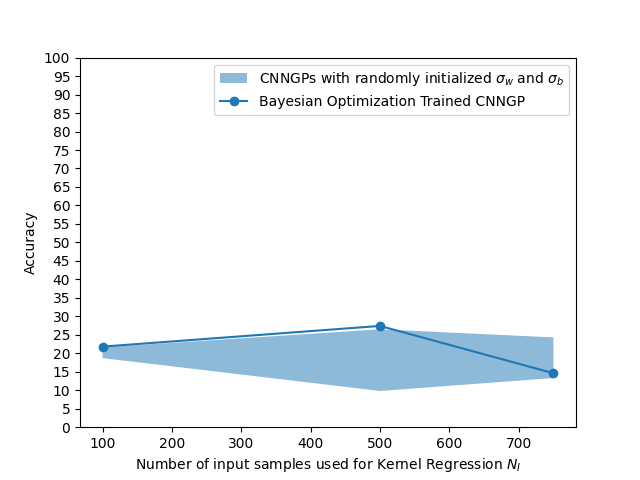
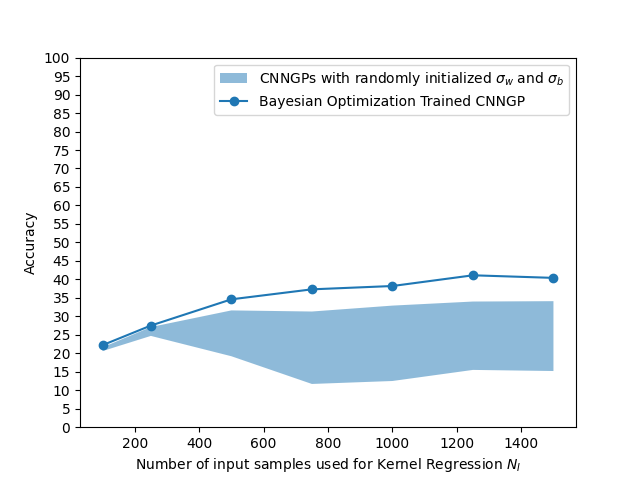
Updated experiments on CPU vs GPU accuracy

diff --git a/exp_kf_cnngp/cpu_vs_gpu_general.py b/exp_kf_cnngp/cpu_vs_gpu_general.py
@@ -8,11 +8,8 @@ import time
 
 torch.manual_seed(int(time.time()))
 
-
-# A = torch.rand((2000,2000))
-# b = torch.rand(2000)
-Ni_min = 1500
-Ni_max = 2100
+Ni_min = 100
+Ni_max = 1100
 step = 100
 
 data_size_arr = np.arange(Ni_min, Ni_max, step)
@@ -37,87 +34,39 @@ for data_size in tqdm(data_size_arr):
     b_i = torch.rand((data_size), dtype=torch.float32)
 
     # CPU Evaluations Float 64
-    # cpu_matmul_float64 = torch.matmul(A_i.to(torch.float64), B_i.to(torch.float64))
-    cpu_lstsq_float64 = torch.linalg.lstsq(A_i.to(torch.float64), b_i.to(torch.float64), rcond=1e-8).solution
-    cpu_lstsq_float64 = torch.matmul(B_i.to(torch.float64), cpu_lstsq_float64)
-    # cpu_kg_float64 = torch.matmul(B_i.to(torch.float64), cpu_lstsq_float64)
-    # cpu_lstsq_float64 = torch.matmul(torch.linalg.inv(A_i), b_i)
+    cpu_matmul_float64 = torch.matmul(A_i.to(torch.float64), B_i.to(torch.float64))
 
     # CPU Evaluations Float 32
-    # cpu_matmul_float32 = torch.matmul(A_i, A_i)
-    cpu_lstsq_float32 = torch.linalg.lstsq(A_i, b_i, rcond=1e-8).solution
-    cpu_lstsq_float32 = torch.matmul(B_i, cpu_lstsq_float32)
-    # cpu_kg_float32 = torch.matmul(B_i, cpu_lstsq_float32)
-    # cpu_lstsq_float32 = torch.matmul(torch.linalg.inv(A_i.to(torch.float32)), b_i.to(torch.float32))
+    cpu_matmul_float32 = torch.matmul(A_i, B_i)
 
     # GPU Evaluations Float 64
-    # gpu_matmul_float64 = torch.matmul(A_i.to(torch.float64).cuda(), B_i.to(torch.float64).cuda())
-    gpu_lstsq_float64 = torch.linalg.lstsq(A_i.to(torch.float64).cuda(), b_i.to(torch.float64).cuda(), rcond=1e-8).solution
-    gpu_lstsq_float64 = torch.matmul(B_i.to(torch.float64).cuda(), gpu_lstsq_float64)
-    # gpu_kg_float64 = torch.matmul(B_i.to(torch.float64).cuda(), gpu_lstsq_float64)
-    # gpu_lstsq_float64 = torch.matmul(torch.linalg.inv(A_i.cuda()), b_i.cuda())
+    gpu_matmul_float64 = torch.matmul(A_i.to(torch.float64).cuda(), B_i.to(torch.float64).cuda())
 
     # CPU Evaluations Float 32
-    # gpu_matmul_float32 = torch.matmul(A_i.cuda(), B_i.cuda())
-    gpu_lstsq_float32 = torch.linalg.lstsq(A_i.cuda(), b_i.cuda(), rcond=1e-8).solution
-    gpu_lstsq_float32 = torch.matmul(B_i.cuda(), gpu_lstsq_float32)
-
-    # gpu_kg_float32 = torch.matmul(B_i.to(torch.float32).cuda(), gpu_lstsq_float32)
-    # gpu_lstsq_float32 = torch.matmul(torch.linalg.inv(A_i.to(torch.float32).cuda()), b_i.to(torch.float32).cuda())
+    gpu_matmul_float32 = torch.matmul(A_i.cuda(), B_i.cuda())
 
     # Norm of CPU vs GPU on float 64
-    normed_diff_float64.append(torch.linalg.norm((cpu_lstsq_float64 - gpu_lstsq_float64.cpu())))
-    # normed_diff_matmul_float64.append(torch.linalg.norm((cpu_matmul_float64 - gpu_matmul_float64.cpu()) / cpu_matmul_float64))
-    # normed_diff_kerreg_float64.append(torch.linalg.norm(cpu_kg_float64 - gpu_kg_float64.cpu()))
+    normed_diff_matmul_float64.append(torch.linalg.norm((cpu_matmul_float64 - gpu_matmul_float64.cpu()) / cpu_matmul_float64))
     
     # Norm of CPU vs GPU on float 32
-    normed_diff_float32.append(torch.linalg.norm((cpu_lstsq_float64 - gpu_lstsq_float32.cpu())))
-    # normed_diff_matmul_float32.append(torch.linalg.norm((cpu_matmul_float64 - gpu_matmul_float32.cpu()) / cpu_matmul_float64))
-    # normed_diff_kerreg_float32.append(torch.linalg.norm(cpu_kg_float32 - gpu_kg_float32.cpu()))
+    normed_diff_matmul_float32.append(torch.linalg.norm((cpu_matmul_float64 - gpu_matmul_float32.cpu()) / cpu_matmul_float64))
 
     # Norm of CPU float 64 vs float 32
-    normed_diff_float32_vs_float64.append(torch.linalg.norm((cpu_lstsq_float32 - cpu_lstsq_float64)))
-    # normed_diff_matmul_float32_vs_float64.append(torch.linalg.norm((cpu_matmul_float32 - cpu_matmul_float64) / cpu_matmul_float32))
-    # normed_diff_kerreg_float32_vs_float64.append(torch.linalg.norm(cpu_kg_float32 - cpu_kg_float64))
+    normed_diff_matmul_float32_vs_float64.append(torch.linalg.norm((cpu_matmul_float32 - cpu_matmul_float64) / cpu_matmul_float64))
 
-    normed_diff_float32_vs_float64_gpu.append(torch.linalg.norm((gpu_lstsq_float32.cpu() - gpu_lstsq_float64.cpu())))
-    # normed_diff_matmul_float32_vs_float64_gpu.append(torch.linalg.norm((gpu_matmul_float32.cpu() - gpu_matmul_float64.cpu()) / gpu_matmul_float32.cpu()))
 
 fig, ax = plt.subplots(1,1)
-ax.semilogy(data_size_arr, normed_diff_float64, 'o-', label='CPU 64 bit vs GPU 64 bit precision', alpha=0.35)
-ax.semilogy(data_size_arr, normed_diff_float32, '*-', label='CPU 64 bit vs GPU 32 bit precision', alpha=0.35)
-ax.semilogy(data_size_arr, normed_diff_float32_vs_float64, '^-', label='CPU 32 bit vs CPU 64 bit', alpha=0.35)
-ax.semilogy(data_size_arr, normed_diff_float32_vs_float64_gpu, '^-', label='GPU 32 bit vs GPU 64 bit', alpha=0.35)
-ax.set_xlabel("Square matrix height")
-ax.set_ylabel("$||A^{-1}_{CPU}b_{CPU} - A^{-1}_{GPU}b_{GPU}||_2$")
-plt.legend()
+ax.semilogy(data_size_arr, normed_diff_matmul_float64, 'o-', label='CPU 64 bit vs GPU 64 bit precision', alpha=0.35)
+ax.semilogy(data_size_arr, normed_diff_matmul_float32, '*-',  label='CPU 64 bit vs GPU 32 bit precision', alpha=0.35)
+ax.semilogy(data_size_arr, normed_diff_matmul_float32_vs_float64, '^-',  label='CPU 64 bit vs CPU 32 bit precision', alpha=0.35)
+# ax.semilogy(data_size_arr, normed_diff_matmul_float32_vs_float64_gpu, '^-',  label='GPU 32 bit vs GPU 64 bit', alpha=0.35)
+ax.set_xlabel("Matrix size N_i")
+ax.set_ylabel("$||(AB_{CPU64} - AB_{other})/ AB_{CPU64}||_2$")
+ax.set_xticks(data_size_arr)
+ax.set_xticklabels(ax.get_xticks(), rotation = 45)
+# ax.set_title(f"""Matrix with condition number {}""")
+plt.legend(prop={'size': 6})
 plt.tight_layout()
 plt.show()
-# fig.savefig('./figs/cpu_vs_gpu_lstsq_norm.png')
 
-# fig, ax = plt.subplots(1,1)
-# ax.semilogy(data_size_arr, normed_diff_matmul_float64, 'o-', label='CPU vs GPU 64 bit precision', alpha=0.35)
-# ax.semilogy(data_size_arr, normed_diff_matmul_float32, '*-',  label='CPU vs GPU 32 bit precision', alpha=0.35)
-# ax.semilogy(data_size_arr, normed_diff_matmul_float32_vs_float64, '^-',  label='Float 32 vs Float 64 on CPU', alpha=0.35)
-# ax.semilogy(data_size_arr, normed_diff_matmul_float32_vs_float64_gpu, '^-',  label='Float 32 vs Float 64 on GPU', alpha=0.35)
-# ax.set_xlabel("Matrix size N_i")
-# ax.set_ylabel("$||AA_{CPU} - AA_{GPU}||_2$")
-# ax.set_xticks(data_size_arr)
-# ax.set_xticklabels(ax.get_xticks(), rotation = 45)
-# plt.legend()
-# plt.tight_layout()
-# plt.show()
-
-# fig, ax = plt.subplots(1,1)
-# ax.semilogy(data_size_arr, normed_diff_kerreg_float64, 'o-', label='CPU vs GPU 64 bit precision')
-# ax.semilogy(data_size_arr, normed_diff_kerreg_float32, '*-',  label='CPU vs GPU 32 bit precision')
-# ax.semilogy(data_size_arr, normed_diff_kerreg_float32_vs_float64, '^-',  label='Float 32 vs Float 64 on CPU')
-# ax.set_xlabel("Matrix size N_i")
-# ax.set_ylabel("$||AA_{CPU} - AA_{GPU}||_2$")
-# ax.set_xticks(data_size_arr)
-# ax.set_xticklabels(ax.get_xticks(), rotation = 45)
-# plt.legend()
-# plt.tight_layout()
-# plt.show()
-# pass
-# fig.savefig('./figs/cpu_vs_gpu_lstsq_norm.png')
+fig.savefig("figs/cpu_vs_gpu_general.png")

diff --git a/exp_kf_cnngp/cpu_vs_gpu_kernel_regression.py b/exp_kf_cnngp/cpu_vs_gpu_kernel_regression.py
@@ -51,6 +51,9 @@ def main(_):
     gpu_acc = [] 
     cpu_acc_float64 = []
     gpu_acc_float64 = []
+    normed_diff_matmul_cpu = []
+    normed_diff_matmul_gpu = []
+    normed_diff_matmul_gpu64 = []
     for N_i in tqdm(N_i_arr):
         X_train_Ni = X_train[:N_i]
         Y_train_Ni = Y_train[:N_i]
@@ -59,33 +62,58 @@ def main(_):
             k_xx = get_kernel(X_train_Ni, X_train_Ni, cnngp=cnn_gp)
             k_x_prime_x = get_kernel(X_test, X_train_Ni, cnngp=cnn_gp)
 
-        # CPU evaluation
-        k_inv_Y_cpu = torch.linalg.lstsq(k_xx.cpu(), Y_train_Ni.cpu(), rcond=1e-8).solution
-        # k_inv_Y_cpu = torch.matmul(torch.linalg.inv(k_xx.cpu()), Y_train_Ni.cpu())
-        prediction_cpu = torch.matmul(k_x_prime_x.cpu(), k_inv_Y_cpu)
+    #########################################################################################################
+        # # CPU evaluation
+        # k_inv_Y_cpu = torch.linalg.lstsq(k_xx.cpu(), Y_train_Ni.cpu(), rcond=1e-8).solution
+        # # k_inv_Y_cpu = torch.matmul(torch.linalg.inv(k_xx.cpu()), Y_train_Ni.cpu())
+        # prediction_cpu = torch.matmul(k_x_prime_x.cpu(), k_inv_Y_cpu)
+        # prediction_labels_cpu = get_label_from_probability(prediction_cpu)
+        # cpu_acc.append(accuracy_score(prediction_labels_cpu, Y_test.cpu().numpy()) * 100)
+
+        # # GPU evaluation
+        # k_inv_Y_gpu = torch.linalg.lstsq(k_xx, Y_train_Ni, rcond=1e-8).solution
+        # # k_inv_Y_gpu = torch.matmul(torch.linalg.inv(k_xx), Y_train_Ni)
+        # prediction_gpu = torch.matmul(k_x_prime_x, k_inv_Y_gpu)
+        # prediction_labels_gpu = get_label_from_probability(prediction_gpu)
+        # gpu_acc.append(accuracy_score(prediction_labels_gpu, Y_test.cpu().numpy()) * 100)
+
+        # # CPU evaluation float 64
+        # k_inv_Y_cpu_float64 = torch.linalg.lstsq(k_xx.cpu().to(torch.float64), Y_train_Ni.cpu().to(torch.float64), rcond=1e-8).solution
+        # # k_inv_Y_cpu_float64 = torch.matmul(torch.linalg.inv(k_xx.cpu().to(torch.float64)), Y_train_Ni.cpu().to(torch.float64))
+        # prediction_cpu_float64 = torch.matmul(k_x_prime_x.cpu().to(torch.float64), k_inv_Y_cpu_float64)
+        # prediction_labels_cpu_float64 = get_label_from_probability(prediction_cpu_float64)
+        # cpu_acc_float64.append(accuracy_score(prediction_labels_cpu_float64, Y_test.cpu().to(torch.float64).numpy()) * 100)
+
+        # # GPU evaluation float 64
+        # k_inv_Y_gpu_float64 = torch.linalg.lstsq(k_xx.to(torch.float64), Y_train_Ni.to(torch.float64), rcond=1e-8).solution
+        # # k_inv_Y_gpu_float64 = torch.matmul(torch.linalg.inv(k_xx.to(torch.float64)), Y_train_Ni.to(torch.float64))
+        # prediction_gpu_float64 = torch.matmul(k_x_prime_x.to(torch.float64), k_inv_Y_gpu_float64)
+        # prediction_labels_gpu_float64 = get_label_from_probability(prediction_gpu_float64)
+        # gpu_acc_float64.append(accuracy_score(prediction_labels_gpu_float64, Y_test.cpu().to(torch.float64).numpy()) * 100)
+    #########################################################################################################
+    
+        k_inv_Y_cpu_float64 = torch.linalg.lstsq(k_xx.cpu().to(torch.float64), Y_train_Ni.cpu().to(torch.float64), rcond=1e-8).solution
+
+        prediction_cpu = torch.matmul(k_x_prime_x.cpu(), k_inv_Y_cpu_float64.to(torch.float32))
         prediction_labels_cpu = get_label_from_probability(prediction_cpu)
         cpu_acc.append(accuracy_score(prediction_labels_cpu, Y_test.cpu().numpy()) * 100)
 
-        # GPU evaluation
-        k_inv_Y_gpu = torch.linalg.lstsq(k_xx, Y_train_Ni, rcond=1e-8).solution
-        # k_inv_Y_gpu = torch.matmul(torch.linalg.inv(k_xx), Y_train_Ni)
-        prediction_gpu = torch.matmul(k_x_prime_x, k_inv_Y_gpu)
+        prediction_gpu = torch.matmul(k_x_prime_x, k_inv_Y_cpu_float64.cuda().to(torch.float32))
         prediction_labels_gpu = get_label_from_probability(prediction_gpu)
         gpu_acc.append(accuracy_score(prediction_labels_gpu, Y_test.cpu().numpy()) * 100)
 
-        # CPU evaluation float 64
-        k_inv_Y_cpu_float64 = torch.linalg.lstsq(k_xx.cpu().to(torch.float64), Y_train_Ni.cpu().to(torch.float64), rcond=1e-8).solution
-        # k_inv_Y_cpu_float64 = torch.matmul(torch.linalg.inv(k_xx.cpu().to(torch.float64)), Y_train_Ni.cpu().to(torch.float64))
         prediction_cpu_float64 = torch.matmul(k_x_prime_x.cpu().to(torch.float64), k_inv_Y_cpu_float64)
         prediction_labels_cpu_float64 = get_label_from_probability(prediction_cpu_float64)
         cpu_acc_float64.append(accuracy_score(prediction_labels_cpu_float64, Y_test.cpu().to(torch.float64).numpy()) * 100)
 
-        # GPU evaluation float 64
-        k_inv_Y_gpu_float64 = torch.linalg.lstsq(k_xx.to(torch.float64), Y_train_Ni.to(torch.float64), rcond=1e-8).solution
-        # k_inv_Y_gpu_float64 = torch.matmul(torch.linalg.inv(k_xx.to(torch.float64)), Y_train_Ni.to(torch.float64))
-        prediction_gpu_float64 = torch.matmul(k_x_prime_x.to(torch.float64), k_inv_Y_gpu_float64)
+        prediction_gpu_float64 = torch.matmul(k_x_prime_x.to(torch.float64), k_inv_Y_cpu_float64.cuda())
         prediction_labels_gpu_float64 = get_label_from_probability(prediction_gpu_float64)
         gpu_acc_float64.append(accuracy_score(prediction_labels_gpu_float64, Y_test.cpu().to(torch.float64).numpy()) * 100)
+
+        normed_diff_matmul_cpu.append(torch.linalg.norm((prediction_cpu_float64 - prediction_cpu.to(torch.float64)) / prediction_cpu_float64))
+        normed_diff_matmul_gpu.append(torch.linalg.norm((prediction_cpu_float64 - prediction_gpu.cpu().to(torch.float64)) / prediction_cpu_float64))
+        normed_diff_matmul_gpu64.append(torch.linalg.norm((prediction_cpu_float64 - prediction_gpu_float64.cpu()) / prediction_cpu_float64))
+
 
     fig, ax = plt.subplots(1,1)
     ax.plot(N_i_arr, cpu_acc, '-o', label="Kernel Regression on CPU with 32 bit precision", alpha=0.35)
@@ -95,10 +123,19 @@ def main(_):
     ax.set_xlabel("Number of datapoints used for Kernel Regression: $N_I$")
     ax.set_ylabel("Accuracy")
     ax.set_ylim((0,100))
+    ax.set_ylim((0,100))
     plt.legend(prop={'size': 6})
-    # fig.savefig('./figs/cpu_vs_gpu_kernel_regression_accuracy.png')
+    fig.savefig('./figs/cpu_vs_gpu_kernel_regression_accuracy.png')
+
+    fig, ax = plt.subplots(1,1)
+    ax.semilogy(N_i_arr, normed_diff_matmul_cpu,  'o-', label='CPU 64 bit precision vs CPU 32 bit precision')
+    ax.semilogy(N_i_arr, normed_diff_matmul_gpu, '*-',label='CPU 64 bit precision vs GPU 32 bit precision')
+    ax.semilogy(N_i_arr, normed_diff_matmul_gpu64, '^-', label='CPU 64 bit precision vs GPU 64 bit precision')
+    ax.set_xlabel("Number of datapoints used for Kernel Regression: $N_I$")
+    ax.set_ylabel("$||CPU64(K_{xx^\prime}(K_{xx}^{-1}Y)_{CPU64}) - Other(K_{xx^\prime}(K_{xx}^{-1}Y)_{CPU64})||_2$")
+    plt.legend(prop={'size': 6})
+    fig.savefig('./figs/cpu_vs_gpu_kernel_regression_diff_norm.png')
     plt.show()
-    pass
 
 if __name__ == '__main__':
     f = absl.app.flags

diff --git a/utils/utils.py b/utils/utils.py
@@ -34,7 +34,8 @@ def get_CIFAR_dataset(train_size: int, val_size: int, shuffle: bool = True, devi
         Train dataset, Train dataset targets as one hot encoding
         Test dataset, Test dataset targets
     """
-    transform = transforms.Compose([transforms.ToTensor()])
+    transform = transforms.Compose([transforms.ToTensor(),
+                                    transforms.Normalize((0.5, 0.5, 0.5), (0.5, 0.5, 0.5))])
     trainset = datasets.CIFAR10(root='CIFAR_dataset/train', train=True, download=True, transform=transform)
     valset = datasets.CIFAR10(root='CIFAR_dataset/val', train=False, download=True, transform=transform)
     trainloader = torch.utils.data.DataLoader(trainset, batch_size=train_size, shuffle=shuffle)

diff --git a/exp_kf_cnngp/kernel_flow_bayesian_optimization_CIFAR.py b/exp_kf_cnngp/kernel_flow_bayesian_optimization_CIFAR.py
@@ -26,7 +26,7 @@ def main(_):
 
     rand_acc_matrix = []
     # Getting accuracy for randomly initialized CNNGP
-    for i in range(2):
+    for i in range(3):
         cnn_gp = kernel_flow_configs.get_CNNGP(model_name = FLAGS.CNNGP_model, device=DEVICE)
         rand_acc = []
         for N_i in tqdm(N_i_arr):
